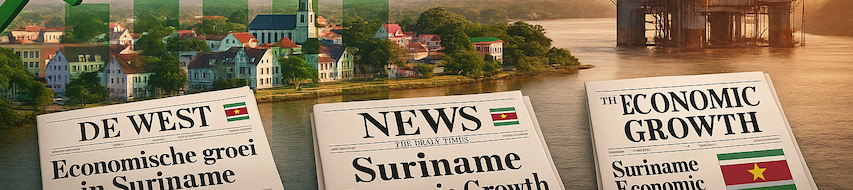
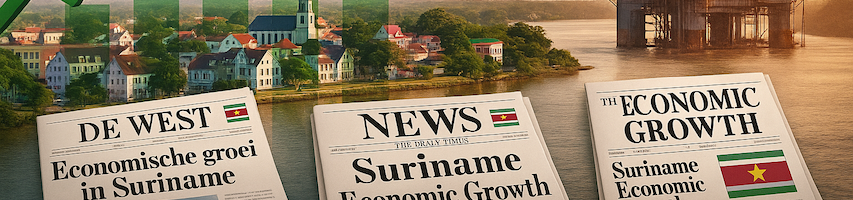
News and Insights: flush-join header photo and newspaper strip
Restructured the top of the page from a CSS background-image + separate
boxed image into two <img> elements stacked with zero gap, split from
the same original source photo at the exact same pixel boundary, so
they read as one continuous picture. Title text now overlays directly
on the top photo via an absolutely-positioned gradient, instead of
sitting in a plain-color band.

Also bumped the stylesheet link to ?v=2 on all pages — browsers were
aggressively caching style.css during local testing, serving stale CSS
after edits despite hard reloads.

diff --git a/News-and-Insights/index.html b/News-and-Insights/index.html
@@ -9,7 +9,7 @@
 <link rel="preconnect" href="https://fonts.googleapis.com">
 <link rel="preconnect" href="https://fonts.gstatic.com" crossorigin>
 <link href="https://fonts.googleapis.com/css2?family=Roboto+Slab:wght@400;700&display=swap" rel="stylesheet">
-<link rel="stylesheet" href="/assets/css/style.css">
+<link rel="stylesheet" href="/assets/css/style.css?v=2">
 </head>
 <body>
 
@@ -32,15 +32,18 @@
   </div>
 </header>
 
-<section class="page-band" style="background-image: url('/assets/images/band-news.png'); background-position: center top;">
-  <div class="container">
-    <h1>News and Insights</h1>
+<section class="photo-band">
+  <img src="/assets/images/band-news-top.png" alt="" class="photo-band-img">
+  <div class="photo-band-overlay">
+    <div class="container">
+      <h1>News and Insights</h1>
+    </div>
   </div>
 </section>
+<img src="/assets/images/news-headlines.png" alt="Suriname newspaper headlines: De West, News, and The Economic Growth on Suriname's oil and gas growth" class="photo-band-img">
 
 <section class="news-hero">
   <div class="container">
-    <img class="news-headlines-img" src="/assets/images/news-headlines.png" alt="Suriname newspaper headlines: De West, News, and The Economic Growth on Suriname's oil and gas growth">
     <div class="box">
       <p>Latest developments: the focus of TVP is Oil &amp; Gas growth in the Suriname-Guyana region. We truly believe in the potential of this region and sector. The <a href="https://suriname-energy.com/" target="_blank" rel="noopener">SEOGS 2026 Summit</a> was a huge success and provided the team with an excellent opportunity with local content providers.</p>
     </div>

diff --git a/assets/css/style.css b/assets/css/style.css
@@ -163,6 +163,32 @@ h1, h2, h3, h4, h5 {
   background: linear-gradient(120deg, rgba(28,61,121,0.82), rgba(28,61,121,0.6));
 }
 .page-band .container { position: relative; z-index: 1; }
+
+/* ---------- Photo band: title overlaid directly on a full-bleed photo,
+   with a second photo flush-joined beneath it (no gap) ---------- */
+.photo-band {
+  position: relative;
+}
+.photo-band-img {
+  display: block;
+  width: 100%;
+  height: auto;
+}
+.photo-band-overlay {
+  position: absolute;
+  inset: 0;
+  display: flex;
+  align-items: center;
+  justify-content: center;
+  text-align: center;
+  color: var(--white);
+  background: linear-gradient(120deg, rgba(28,61,121,0.55), rgba(28,61,121,0.35));
+}
+.photo-band-overlay h1 {
+  color: var(--white);
+  text-shadow: 0 2px 10px rgba(0,0,0,0.4);
+  margin: 0;
+}
 .page-band h1 { color: var(--white); margin-bottom: 0.3em; }
 .page-band p {
   max-width: 720px;
@@ -264,13 +290,6 @@ h1, h2, h3, h4, h5 {
 .news-hero {
   background: var(--gray-bg);
   padding: 48px 0;
-}
-.news-headlines-img {
-  width: 100%;
-  max-width: 900px;
-  margin: 0 auto 24px;
-  border-radius: 8px;
-  box-shadow: 0 2px 10px rgba(0,0,0,0.12);
 }
 .news-hero .box {
   background: var(--white);

diff --git a/index.html b/index.html
@@ -9,7 +9,7 @@
 <link rel="preconnect" href="https://fonts.googleapis.com">
 <link rel="preconnect" href="https://fonts.gstatic.com" crossorigin>
 <link href="https://fonts.googleapis.com/css2?family=Roboto+Slab:wght@400;700&display=swap" rel="stylesheet">
-<link rel="stylesheet" href="/assets/css/style.css">
+<link rel="stylesheet" href="/assets/css/style.css?v=2">
 <!-- GA4: add once the Measurement ID exists — see /assets/js/analytics.js -->
 </head>
 <body>

diff --git a/At-a-Glance/index.html b/At-a-Glance/index.html
@@ -9,7 +9,7 @@
 <link rel="preconnect" href="https://fonts.googleapis.com">
 <link rel="preconnect" href="https://fonts.gstatic.com" crossorigin>
 <link href="https://fonts.googleapis.com/css2?family=Roboto+Slab:wght@400;700&display=swap" rel="stylesheet">
-<link rel="stylesheet" href="/assets/css/style.css">
+<link rel="stylesheet" href="/assets/css/style.css?v=2">
 </head>
 <body>
 

diff --git a/Contacts/index.html b/Contacts/index.html
@@ -9,7 +9,7 @@
 <link rel="preconnect" href="https://fonts.googleapis.com">
 <link rel="preconnect" href="https://fonts.gstatic.com" crossorigin>
 <link href="https://fonts.googleapis.com/css2?family=Roboto+Slab:wght@400;700&display=swap" rel="stylesheet">
-<link rel="stylesheet" href="/assets/css/style.css">
+<link rel="stylesheet" href="/assets/css/style.css?v=2">
 </head>
 <body>
 

diff --git a/Growth/index.html b/Growth/index.html
@@ -9,7 +9,7 @@
 <link rel="preconnect" href="https://fonts.googleapis.com">
 <link rel="preconnect" href="https://fonts.gstatic.com" crossorigin>
 <link href="https://fonts.googleapis.com/css2?family=Roboto+Slab:wght@400;700&display=swap" rel="stylesheet">
-<link rel="stylesheet" href="/assets/css/style.css">
+<link rel="stylesheet" href="/assets/css/style.css?v=2">
 </head>
 <body>
 
